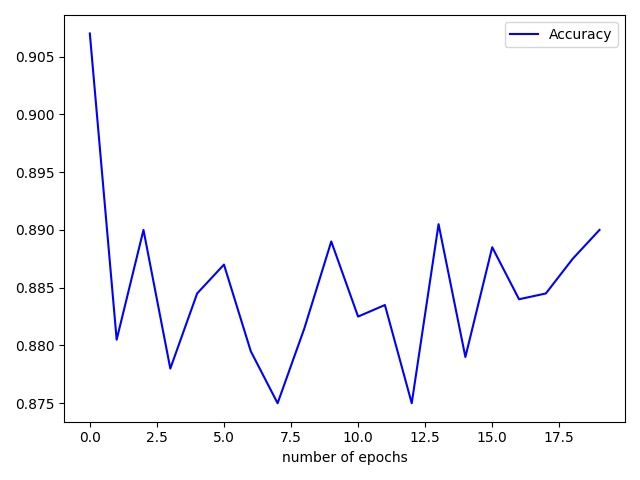
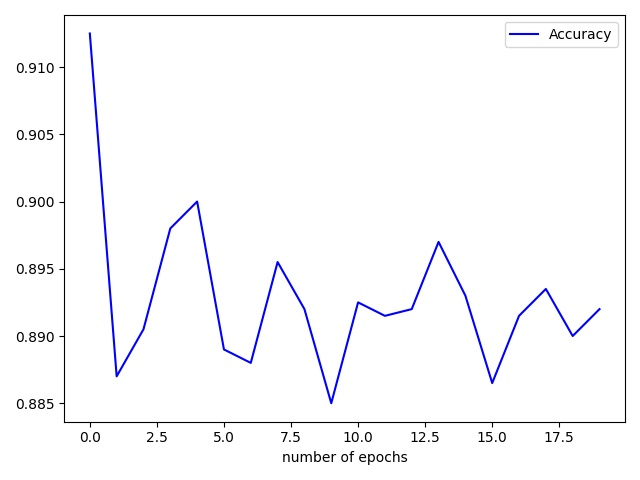
dataset path has been updated + shuffling of data become randomized + plotting accuracy and loss in the same graph

diff --git a/scenario1/CentralizedServerClassifier.py b/scenario1/CentralizedServerClassifier.py
@@ -5,27 +5,28 @@ import struct
 
 import matplotlib.pyplot as plt
 import numpy as np
+import random
 
 
 def readMNISTdata():
-    with open('t10k-images-idx3-ubyte', 'rb') as f:
+    with open('../datasets/mnist/t10k-images-idx3-ubyte', 'rb') as f:
         magic, size = struct.unpack(">II", f.read(8))
         nrows, ncols = struct.unpack(">II", f.read(8))
         test_data = np.fromfile(f, dtype=np.dtype(np.uint8).newbyteorder('>'))
         test_data = test_data.reshape((size, nrows * ncols))
 
-    with open('t10k-labels-idx1-ubyte', 'rb') as f:
+    with open('../datasets/mnist/t10k-labels-idx1-ubyte', 'rb') as f:
         magic, size = struct.unpack(">II", f.read(8))
         test_labels = np.fromfile(f, dtype=np.dtype(np.uint8).newbyteorder('>'))
         test_labels = test_labels.reshape((size, 1))
 
-    with open('train-images-idx3-ubyte', 'rb') as f:
+    with open('../datasets/mnist/train-images-idx3-ubyte', 'rb') as f:
         magic, size = struct.unpack(">II", f.read(8))
         nrows, ncols = struct.unpack(">II", f.read(8))
         train_data = np.fromfile(f, dtype=np.dtype(np.uint8).newbyteorder('>'))
         train_data = train_data.reshape((size, nrows * ncols))
 
-    with open('train-labels-idx1-ubyte', 'rb') as f:
+    with open('../datasets/mnist/train-labels-idx1-ubyte', 'rb') as f:
         magic, size = struct.unpack(">II", f.read(8))
         train_labels = np.fromfile(f, dtype=np.dtype(np.uint8).newbyteorder('>'))
         train_labels = train_labels.reshape((size, 1))
@@ -33,9 +34,12 @@ def readMNISTdata():
     # augmenting a constant feature of 1 (absorbing the bias term)
     train_data = np.concatenate((np.ones([train_data.shape[0], 1]), train_data), axis=1)
     test_data = np.concatenate((np.ones([test_data.shape[0], 1]), test_data), axis=1)
-    np.random.seed(314)
+
+    rnd = int(random.random() * 1000)
+
+    np.random.seed(rnd)
     np.random.shuffle(train_labels)
-    np.random.seed(314)
+    np.random.seed(rnd)
     np.random.shuffle(train_data)
 
     X_train = train_data[:50000] / 256
@@ -142,7 +146,15 @@ epoch_best, acc_best, acc_train, W_best, accs, losses = train(X_train, t_train, 
 _, _, loss, acc = predict(X_test, W_best, t_test)
 
 print('For the test data: loss=', loss, 'and acc=', acc)
-#For the test data: loss= 0.00031469297870585317  and acc= 0.9232
+# For the test data: loss= 0.0003151124013475233 and acc= 0.9258
+
+plt.figure()
+plt.plot([x for x in range(MaxIter)], accs, color="blue", label="Accuracy")
+plt.plot([x for x in range(MaxIter)], losses, color="red", label="Training Loss")
+plt.xlabel('number of epochs')
+plt.legend()
+plt.tight_layout()
+plt.savefig('centralized_server.jpg')
 
 plt.figure()
 plt.plot([x for x in range(MaxIter)], accs, color="blue", label="Accuracy")

diff --git a/scenario3/FederatedLearningWithParamNoiseClassifier.py b/scenario3/FederatedLearningWithParamNoiseClassifier.py
@@ -5,29 +5,30 @@ import struct
 
 import matplotlib.pyplot as plt
 import numpy as np
+import random
 
 
 def readMNISTdata():
     global N_client
 
-    with open('t10k-images-idx3-ubyte', 'rb') as f:
+    with open('../datasets/mnist/t10k-images-idx3-ubyte', 'rb') as f:
         magic, size = struct.unpack(">II", f.read(8))
         nrows, ncols = struct.unpack(">II", f.read(8))
         test_data = np.fromfile(f, dtype=np.dtype(np.uint8).newbyteorder('>'))
         test_data = test_data.reshape((size, nrows * ncols))
 
-    with open('t10k-labels-idx1-ubyte', 'rb') as f:
+    with open('../datasets/mnist/t10k-labels-idx1-ubyte', 'rb') as f:
         magic, size = struct.unpack(">II", f.read(8))
         test_labels = np.fromfile(f, dtype=np.dtype(np.uint8).newbyteorder('>'))
         test_labels = test_labels.reshape((size, 1))
 
-    with open('train-images-idx3-ubyte', 'rb') as f:
+    with open('../datasets/mnist/train-images-idx3-ubyte', 'rb') as f:
         magic, size = struct.unpack(">II", f.read(8))
         nrows, ncols = struct.unpack(">II", f.read(8))
         train_data = np.fromfile(f, dtype=np.dtype(np.uint8).newbyteorder('>'))
         train_data = train_data.reshape((size, nrows * ncols))
 
-    with open('train-labels-idx1-ubyte', 'rb') as f:
+    with open('../datasets/mnist/train-labels-idx1-ubyte', 'rb') as f:
         magic, size = struct.unpack(">II", f.read(8))
         train_labels = np.fromfile(f, dtype=np.dtype(np.uint8).newbyteorder('>'))
         train_labels = train_labels.reshape((size, 1))
@@ -44,9 +45,11 @@ def readMNISTdata():
     del test_data
     del test_labels
 
-    np.random.seed(314)
+    rnd = int(random.random() * 1000)
+
+    np.random.seed(rnd)
     np.random.shuffle(all_labels)
-    np.random.seed(314)
+    np.random.seed(rnd)
     np.random.shuffle(all_data)
 
     # for server: 14K for train, 2K for validation and 4K for test
@@ -192,7 +195,15 @@ W_server, accs, losses = train_server()
 _, _, loss, acc = predict(server['test'][0], W_server, server['test'][1])
 
 print('For the test data: loss=', loss, 'and acc=', acc)
-#For the test data: loss= 0.11251406023218816 and acc= 0.6585
+# For the test data: loss= 0.13541628450742216 and acc= 0.6695
+
+plt.figure()
+plt.plot([x for x in range(MaxFLIter)], accs, color="blue", label="Accuracy")
+plt.plot([x for x in range(MaxFLIter)], losses, color="red", label="Training Loss")
+plt.xlabel('number of epochs')
+plt.legend()
+plt.tight_layout()
+plt.savefig('federated_learning_param_noise.jpg')
 
 plt.figure()
 plt.plot([x for x in range(MaxFLIter)], accs, color="blue", label="Accuracy")

diff --git a/scenario2/FederatedLearningClassifier.py b/scenario2/FederatedLearningClassifier.py
@@ -5,29 +5,30 @@ import struct
 
 import matplotlib.pyplot as plt
 import numpy as np
+import random
 
 
 def readMNISTdata():
     global N_client
 
-    with open('t10k-images-idx3-ubyte', 'rb') as f:
+    with open('../datasets/mnist/t10k-images-idx3-ubyte', 'rb') as f:
         magic, size = struct.unpack(">II", f.read(8))
         nrows, ncols = struct.unpack(">II", f.read(8))
         test_data = np.fromfile(f, dtype=np.dtype(np.uint8).newbyteorder('>'))
         test_data = test_data.reshape((size, nrows * ncols))
 
-    with open('t10k-labels-idx1-ubyte', 'rb') as f:
+    with open('../datasets/mnist/t10k-labels-idx1-ubyte', 'rb') as f:
         magic, size = struct.unpack(">II", f.read(8))
         test_labels = np.fromfile(f, dtype=np.dtype(np.uint8).newbyteorder('>'))
         test_labels = test_labels.reshape((size, 1))
 
-    with open('train-images-idx3-ubyte', 'rb') as f:
+    with open('../datasets/mnist/train-images-idx3-ubyte', 'rb') as f:
         magic, size = struct.unpack(">II", f.read(8))
         nrows, ncols = struct.unpack(">II", f.read(8))
         train_data = np.fromfile(f, dtype=np.dtype(np.uint8).newbyteorder('>'))
         train_data = train_data.reshape((size, nrows * ncols))
 
-    with open('train-labels-idx1-ubyte', 'rb') as f:
+    with open('../datasets/mnist/train-labels-idx1-ubyte', 'rb') as f:
         magic, size = struct.unpack(">II", f.read(8))
         train_labels = np.fromfile(f, dtype=np.dtype(np.uint8).newbyteorder('>'))
         train_labels = train_labels.reshape((size, 1))
@@ -44,9 +45,11 @@ def readMNISTdata():
     del test_data
     del test_labels
 
-    np.random.seed(314)
+    rnd = int(random.random() * 1000)
+
+    np.random.seed(rnd)
     np.random.shuffle(all_labels)
-    np.random.seed(314)
+    np.random.seed(rnd)
     np.random.shuffle(all_data)
 
     # for server: 14K for train, 2K for validation and 4K for test
@@ -182,7 +185,16 @@ W_server, accs, losses = train_server()
 _, _, loss, acc = predict(server['test'][0], W_server, server['test'][1])
 
 print('For the test data: loss=', loss, 'and acc=', acc)
-#For the test data: loss= -0.0 and acc= 0.9135
+# For the test data: loss= 0.0 and acc= 0.91275
+
+
+plt.figure()
+plt.plot([x for x in range(MaxFLIter)], accs, color="blue", label="Accuracy")
+plt.plot([x for x in range(MaxFLIter)], losses, color="red", label="Training Loss")
+plt.xlabel('number of epochs')
+plt.legend()
+plt.tight_layout()
+plt.savefig('federated_learning.jpg')
 
 plt.figure()
 plt.plot([x for x in range(MaxFLIter)], accs, color="blue", label="Accuracy")
